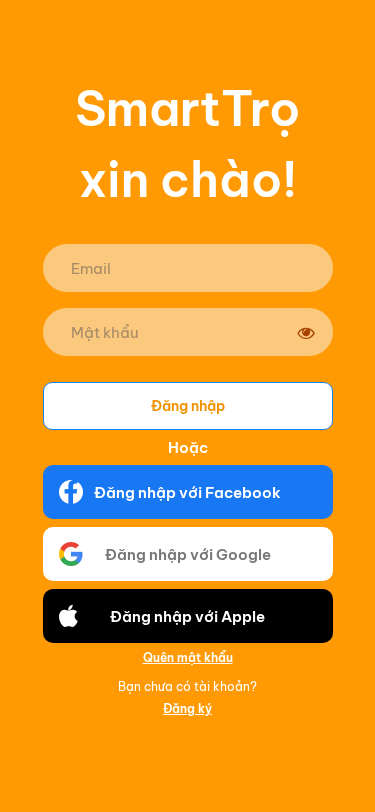
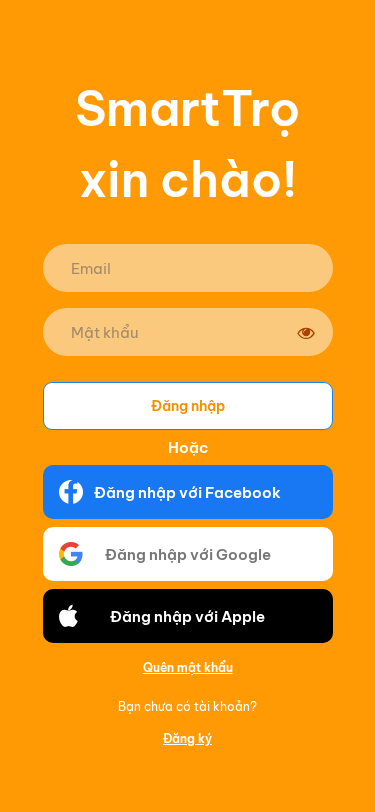
fix(auth): expand interactive link touch targets

Changed region(s): [[0.3227, 0.8005, 0.6747, 0.9236]]

diff --git a/src/screens/AuthScreen.tsx b/src/screens/AuthScreen.tsx
@@ -64,11 +64,11 @@ function Input({ label, value, onChangeText, type = "default" }: { label: string
 function SecretInput({ label, value, onChangeText, visible, onToggle }: { label: string; value: string; onChangeText: (value: string) => void; visible: boolean; onToggle: () => void }) { return <View style={styles.secret}><TextInput accessibilityLabel={label} autoCapitalize="none" onChangeText={onChangeText} placeholder={label} placeholderTextColor="#A78B68" secureTextEntry={!visible} style={styles.secretInput} value={value} /><Pressable accessibilityLabel={visible ? "Ẩn mật khẩu" : "Hiện mật khẩu"} onPress={onToggle} style={styles.eye}><FontAwesome color="#A84300" name={visible ? "eye-slash" : "eye"} size={17} /></Pressable></View>; }
 function Action({ label, onPress, disabled = false }: { label: string; onPress: () => void; disabled?: boolean }) { return <Pressable accessibilityRole="button" disabled={disabled} onPress={onPress} style={[styles.action, disabled && styles.disabled]}><Text style={styles.actionText}>{label}</Text></Pressable>; }
 function SecondaryAction({ label, onPress, disabled = false }: { label: string; onPress: () => void; disabled?: boolean }) { const [focused, setFocused] = useState(false); return <Pressable accessibilityRole="button" disabled={disabled} onBlur={() => setFocused(false)} onFocus={() => setFocused(true)} onPress={onPress} style={[styles.secondaryAction, focused && styles.secondaryActionFocused, disabled && styles.disabled]}><Text style={styles.secondaryActionText}>{label}</Text></Pressable>; }
-function Link({ label, onPress }: { label: string; onPress: () => void }) { return <Pressable accessibilityRole="button" onPress={onPress} style={styles.link}><Text style={styles.linkText}>{label}</Text></Pressable>; }
+function Link({ label, onPress }: { label: string; onPress: () => void }) { const [focused, setFocused] = useState(false); return <Pressable accessibilityRole="button" onBlur={() => setFocused(false)} onFocus={() => setFocused(true)} onPress={onPress} style={[styles.link, focused && styles.linkFocused]}><Text style={styles.linkText}>{label}</Text></Pressable>; }
 function Socials({ action, onPress }: { action: string; onPress: () => void }) { return <View style={styles.socials}>
   <SocialButton asset={require("../../assets/social/facebook.png")} backgroundColor="#1877F2" label={`${action} với Facebook`} onPress={onPress} />
   <SocialButton asset={require("../../assets/social/google.png")} backgroundColor="#FFFFFF" label={`${action} với Google`} onPress={onPress} textColor="#777777" />
   <Pressable accessibilityRole="button" onPress={onPress} style={[styles.social, styles.apple]}><FontAwesome color="#FFFFFF" name="apple" size={24} style={styles.icon} /><Text style={styles.socialText}>{action} với Apple</Text></Pressable>
 </View>; }
 function SocialButton({ asset, backgroundColor, label, onPress, textColor = "#FFFFFF" }: { asset: number; backgroundColor: string; label: string; onPress: () => void; textColor?: string }) { return <Pressable accessibilityRole="button" onPress={onPress} style={[styles.social, { backgroundColor }]}><Image accessibilityIgnoresInvertColors source={asset} style={styles.brandIcon} /><Text style={[styles.socialText, { color: textColor }]}>{label}</Text></Pressable>; }
-const styles = StyleSheet.create({ startup: { alignItems: "center", backgroundColor: "#FF9A05", flex: 1, justifyContent: "center", padding: 36 }, startupTitle: { color: "#FFFFFF", fontSize: 42, fontWeight: "700" }, startupCopy: { color: "#FFFFFF", fontSize: 16, marginTop: 12, textAlign: "center" }, backdrop: { alignItems: "center", backgroundColor: "#FF9A05", flex: 1 }, canvas: { backgroundColor: "#FF9A05", flex: 1 }, content: { alignItems: "center", flexGrow: 1, paddingBottom: 22 }, header: { alignItems: "center", justifyContent: "center", minHeight: 144, width: "100%" }, compactHeader: { minHeight: 112 }, title: { color: "#FFFFFF", fontFamily: "BeVietnamPro_600SemiBold", fontSize: 48, lineHeight: 71, textAlign: "center" }, form: { marginTop: 28 }, compactForm: { marginTop: 14 }, input: { backgroundColor: "#FBC97E", borderRadius: 24, color: "#5B4126", fontFamily: "BeVietnamPro_400Regular", fontSize: 15, height: 48, marginBottom: 16, paddingHorizontal: 28 }, secret: { backgroundColor: "#FBC97E", borderRadius: 24, height: 48, marginBottom: 16 }, secretInput: { color: "#5B4126", fontFamily: "BeVietnamPro_400Regular", fontSize: 15, height: 48, paddingHorizontal: 28, paddingRight: 54 }, eye: { height: 48, justifyContent: "center", position: "absolute", right: 18 }, action: { alignItems: "center", backgroundColor: "#FFFFFF", borderColor: "#1684F7", borderRadius: 9, borderWidth: 1.5, height: 48, justifyContent: "center", marginTop: 10 }, actionText: { color: "#F09200", fontFamily: "BeVietnamPro_600SemiBold", fontSize: 14 }, secondaryAction: { alignItems: "center", borderRadius: 9, height: 48, justifyContent: "center", marginTop: 10 }, secondaryActionFocused: { borderColor: "#1684F7", borderWidth: 1.5 }, secondaryActionText: { color: "#FFFFFF", fontFamily: "BeVietnamPro_600SemiBold", fontSize: 14 }, disabled: { opacity: 0.55 }, otpEmailBlock: { alignItems: "center", marginBottom: 8 }, or: { alignSelf: "center", color: "#FFFFFF", fontFamily: "BeVietnamPro_600SemiBold", fontSize: 15, marginVertical: 8 }, socials: { gap: 8 }, social: { alignItems: "center", borderRadius: 10, flexDirection: "row", height: 54, justifyContent: "center" }, apple: { backgroundColor: "#000000" }, brandIcon: { height: 24, left: 16, position: "absolute", width: 24 }, icon: { left: 16, position: "absolute" }, socialText: { color: "#FFFFFF", fontFamily: "BeVietnamPro_600SemiBold", fontSize: 15 }, link: { alignItems: "center", justifyContent: "center", minHeight: 28 }, linkText: { color: "#FFFFFF", fontFamily: "BeVietnamPro_600SemiBold", fontSize: 12, textDecorationLine: "underline" }, account: { color: "#FFFFFF", fontFamily: "BeVietnamPro_400Regular", fontSize: 12, marginTop: 8, textAlign: "center" }, helper: { color: "#FFFFFF", fontFamily: "BeVietnamPro_400Regular", fontSize: 12, lineHeight: 18, marginBottom: 10, minHeight: 18, textAlign: "center" }, error: { color: "#8B1C1C", fontFamily: "BeVietnamPro_400Regular", fontSize: 12, marginBottom: 2, textAlign: "center" }, notice: { color: "#5B4126", fontFamily: "BeVietnamPro_400Regular", fontSize: 12, marginBottom: 2, textAlign: "center" }, revision: { color: "rgba(255,255,255,0.7)", fontSize: 10, marginTop: 18 } });
+const styles = StyleSheet.create({ startup: { alignItems: "center", backgroundColor: "#FF9A05", flex: 1, justifyContent: "center", padding: 36 }, startupTitle: { color: "#FFFFFF", fontSize: 42, fontWeight: "700" }, startupCopy: { color: "#FFFFFF", fontSize: 16, marginTop: 12, textAlign: "center" }, backdrop: { alignItems: "center", backgroundColor: "#FF9A05", flex: 1 }, canvas: { backgroundColor: "#FF9A05", flex: 1 }, content: { alignItems: "center", flexGrow: 1, paddingBottom: 22 }, header: { alignItems: "center", justifyContent: "center", minHeight: 144, width: "100%" }, compactHeader: { minHeight: 112 }, title: { color: "#FFFFFF", fontFamily: "BeVietnamPro_600SemiBold", fontSize: 48, lineHeight: 71, textAlign: "center" }, form: { marginTop: 28 }, compactForm: { marginTop: 14 }, input: { backgroundColor: "#FBC97E", borderRadius: 24, color: "#5B4126", fontFamily: "BeVietnamPro_400Regular", fontSize: 15, height: 48, marginBottom: 16, paddingHorizontal: 28 }, secret: { backgroundColor: "#FBC97E", borderRadius: 24, height: 48, marginBottom: 16 }, secretInput: { color: "#5B4126", fontFamily: "BeVietnamPro_400Regular", fontSize: 15, height: 48, paddingHorizontal: 28, paddingRight: 54 }, eye: { height: 48, justifyContent: "center", position: "absolute", right: 18 }, action: { alignItems: "center", backgroundColor: "#FFFFFF", borderColor: "#1684F7", borderRadius: 9, borderWidth: 1.5, height: 48, justifyContent: "center", marginTop: 10 }, actionText: { color: "#F09200", fontFamily: "BeVietnamPro_600SemiBold", fontSize: 14 }, secondaryAction: { alignItems: "center", borderRadius: 9, height: 48, justifyContent: "center", marginTop: 10 }, secondaryActionFocused: { borderColor: "#1684F7", borderWidth: 1.5 }, secondaryActionText: { color: "#FFFFFF", fontFamily: "BeVietnamPro_600SemiBold", fontSize: 14 }, disabled: { opacity: 0.55 }, otpEmailBlock: { alignItems: "center", marginBottom: 8 }, or: { alignSelf: "center", color: "#FFFFFF", fontFamily: "BeVietnamPro_600SemiBold", fontSize: 15, marginVertical: 8 }, socials: { gap: 8 }, social: { alignItems: "center", borderRadius: 10, flexDirection: "row", height: 54, justifyContent: "center" }, apple: { backgroundColor: "#000000" }, brandIcon: { height: 24, left: 16, position: "absolute", width: 24 }, icon: { left: 16, position: "absolute" }, socialText: { color: "#FFFFFF", fontFamily: "BeVietnamPro_600SemiBold", fontSize: 15 }, link: { alignItems: "center", justifyContent: "center", minHeight: 48 }, linkFocused: { borderColor: "#1684F7", borderWidth: 1.5 }, linkText: { color: "#FFFFFF", fontFamily: "BeVietnamPro_600SemiBold", fontSize: 12, textDecorationLine: "underline" }, account: { color: "#FFFFFF", fontFamily: "BeVietnamPro_400Regular", fontSize: 12, marginTop: 8, textAlign: "center" }, helper: { color: "#FFFFFF", fontFamily: "BeVietnamPro_400Regular", fontSize: 12, lineHeight: 18, marginBottom: 10, minHeight: 18, textAlign: "center" }, error: { color: "#8B1C1C", fontFamily: "BeVietnamPro_400Regular", fontSize: 12, marginBottom: 2, textAlign: "center" }, notice: { color: "#5B4126", fontFamily: "BeVietnamPro_400Regular", fontSize: 12, marginBottom: 2, textAlign: "center" }, revision: { color: "rgba(255,255,255,0.7)", fontSize: 10, marginTop: 18 } });

diff --git a/tests/web/auth-touch-target.spec.ts b/tests/web/auth-touch-target.spec.ts
@@ -1,0 +1,44 @@
+import { expect, test, type Locator } from "@playwright/test";
+
+test.skip(process.env.AUTH_TOUCH_TARGET_REVIEW !== "true", "Touch-target coverage uses the dedicated mock-auth export.");
+
+const viewports = [
+  { name: "mobile-320", width: 320, height: 568 },
+  { name: "mobile-375", width: 375, height: 812 },
+  { name: "mobile-390", width: 390, height: 844 },
+  { name: "mobile-430", width: 430, height: 932 },
+];
+
+async function expectTouchTarget(control: Locator) {
+  const box = await control.boundingBox();
+  expect(box).not.toBeNull();
+  expect(box!.height).toBeGreaterThanOrEqual(48);
+  expect(box!.width).toBeGreaterThanOrEqual(48);
+}
+
+for (const viewport of viewports) {
+  test(`keeps auth link targets and keyboard navigation accessible at ${viewport.name}`, async ({ page }) => {
+    await page.setViewportSize(viewport);
+    await page.goto("");
+
+    const forgotPassword = page.getByRole("button", { name: "Quên mật khẩu", exact: true });
+    const signUp = page.getByRole("button", { name: "Đăng ký", exact: true });
+    await expectTouchTarget(forgotPassword);
+    await expectTouchTarget(signUp);
+    await signUp.focus();
+    await expect(signUp).toBeFocused();
+    await page.keyboard.press("Enter");
+
+    const signIn = page.getByRole("button", { name: "Đăng nhập", exact: true });
+    await expectTouchTarget(signIn);
+    await page.getByLabel("Email").fill("touch-target@example.com");
+    await page.getByRole("button", { name: "Gửi OTP", exact: true }).click();
+
+    const changeEmail = page.getByRole("button", { name: "Đổi email", exact: true });
+    await expectTouchTarget(changeEmail);
+    await changeEmail.focus();
+    await expect(changeEmail).toBeFocused();
+    await page.keyboard.press("Enter");
+    await expect(page.getByLabel("Email")).toHaveValue("touch-target@example.com");
+  });
+}
